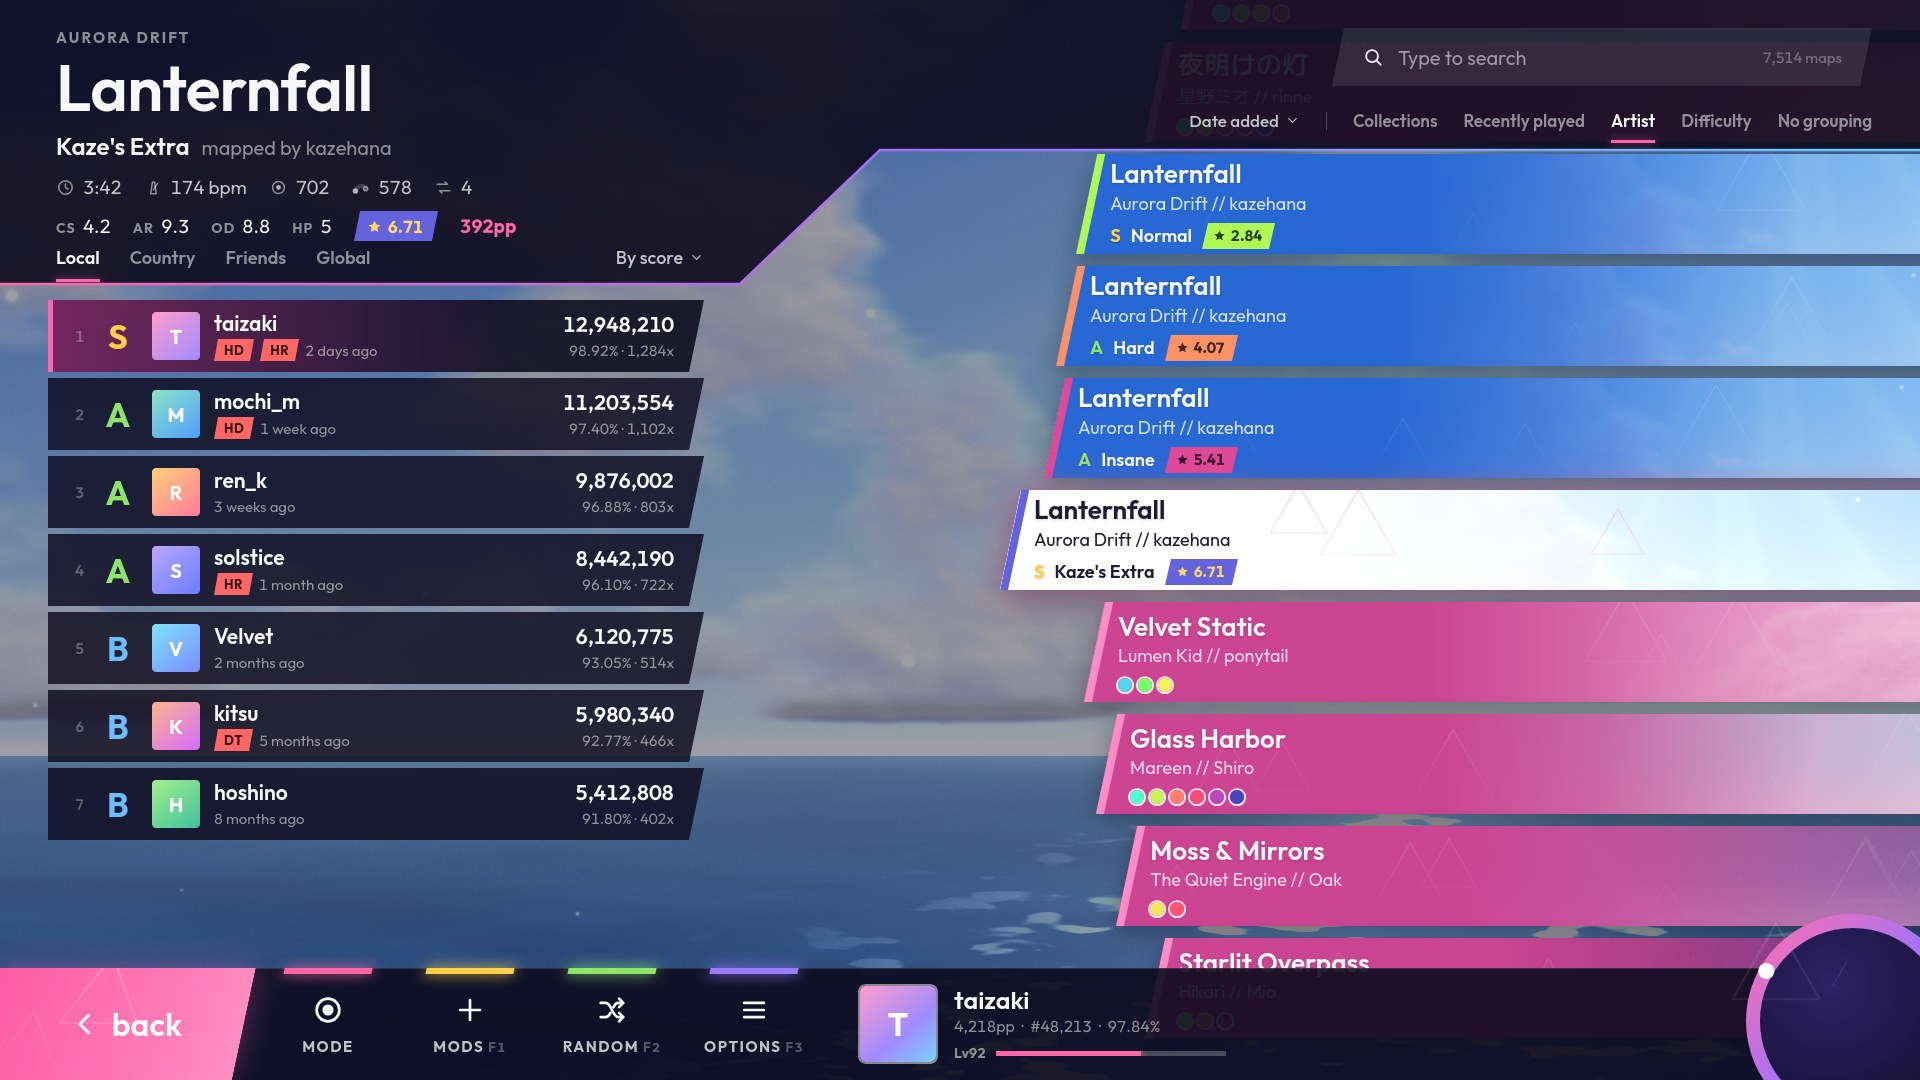
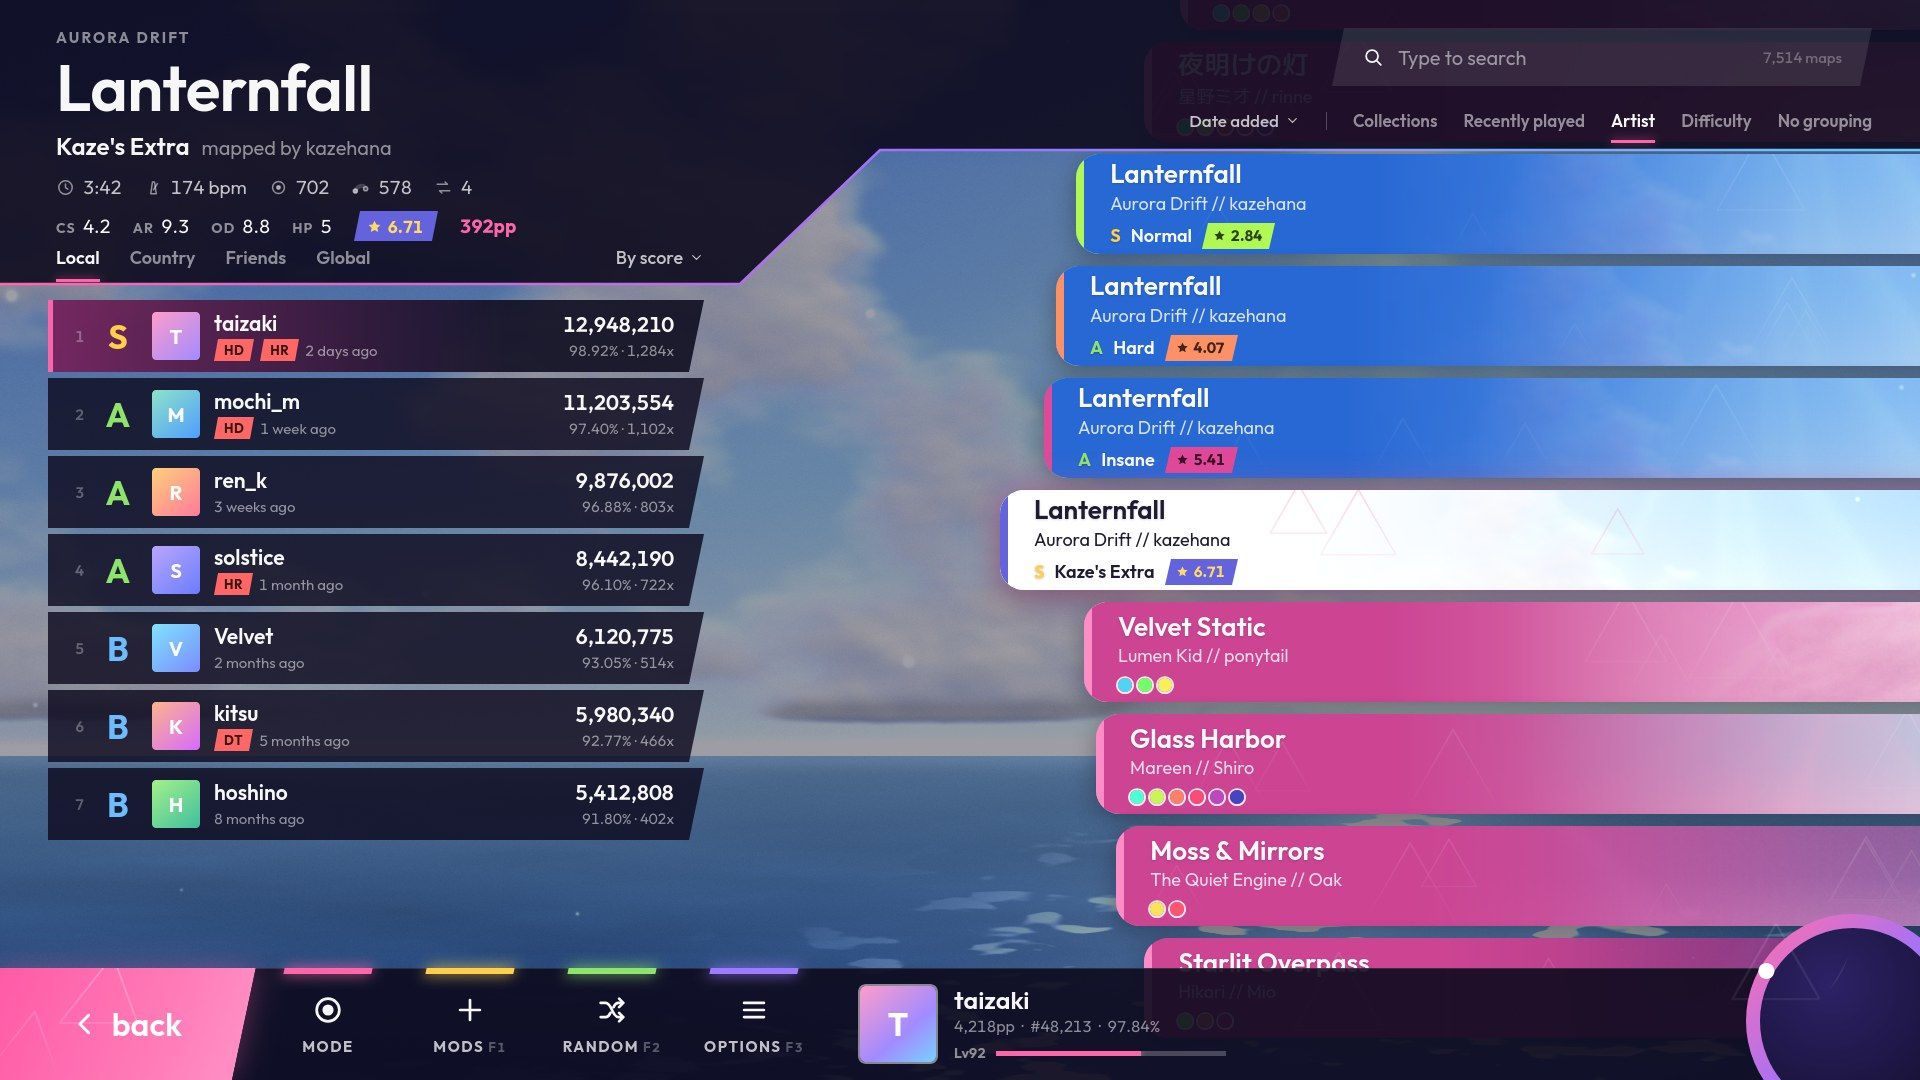
Mockups, round 6: the song cards rounded again, smoother
The user: "not the song cards they already looked good, maybe make them
more smooth, but not making them sharp". The cards get a larger rounding
(24px) and a softer hand-over from their colour to the map's art; the
rest stays sharp.

diff --git a/docs/renovation/mockups/src/round6.css b/docs/renovation/mockups/src/round6.css
@@ -131,14 +131,15 @@ svg.tri { position: absolute; left: 0; top: 0; pointer-events: none; }
 .car { position: absolute; left: 0; right: 0; top: 0; bottom: 0; overflow: hidden; pointer-events: none; z-index: 0; }
 .cw { position: absolute; filter: drop-shadow(0 6px 12px rgba(0, 0, 0, 0.3)); }
 .cw.sel { filter: drop-shadow(0 8px 16px rgba(0, 0, 0, 0.3)) drop-shadow(0 0 16px rgba(255, 102, 170, 0.5)); }
-.card { position: relative; width: 1000px; height: 100px; overflow: hidden; background: var(--art) center / cover; clip-path: polygon(21px 0, 100% 0, 100% 100%, 0 100%); }
-.card .tint { position: absolute; inset: 0; background: linear-gradient(90deg, rgb(var(--c)) 0, rgb(var(--c)) 34%, rgba(var(--c), 0.82) 50%, rgba(var(--c), 0.42) 72%, rgba(var(--c), 0.22) 100%); }
+/* the cards stay rounded (the user: "not the song cards they already looked good, maybe make them more smooth") */
+.card { position: relative; width: 1000px; height: 100px; overflow: hidden; background: var(--art) center / cover; border-radius: 24px 0 0 24px; }
+.card .tint { position: absolute; inset: 0; background: linear-gradient(90deg, rgb(var(--c)) 0, rgb(var(--c)) 30%, rgba(var(--c), 0.9) 42%, rgba(var(--c), 0.68) 55%, rgba(var(--c), 0.45) 70%, rgba(var(--c), 0.3) 85%, rgba(var(--c), 0.24) 100%); }
 .card.set { --c: 204, 68, 146; --mark: #ff8cc6; }
 .card.diff { --c: 40, 104, 212; }
 .card.sel { --c: 255, 255, 255;
             --ink: var(--sel-ink); --ink-2: var(--sel-ink-2); --ink-3: var(--sel-ink-2); color: var(--ink); }
 .v-light .card.sel { --c: 30, 24, 58; }
-.card::before { content: ""; position: absolute; left: 0; top: 0; bottom: 0; width: 8px; transform: skewX(-12deg); transform-origin: bottom left; background: var(--mark); z-index: 2; }
+.card::before { content: ""; position: absolute; left: 0; top: 0; bottom: 0; width: 8px; background: var(--mark); z-index: 2; }
 .card .tx { position: absolute; left: 34px; top: 0; bottom: 0; display: flex; flex-direction: column; justify-content: center; gap: 4px; z-index: 1; }
 .card .t { font-size: 26px; font-weight: 600; white-space: nowrap; line-height: 1.1; text-shadow: 0 1px 2px rgba(0, 0, 0, 0.15); }
 .card:not(.sel) .a { color: rgba(255, 255, 255, 0.8); }
